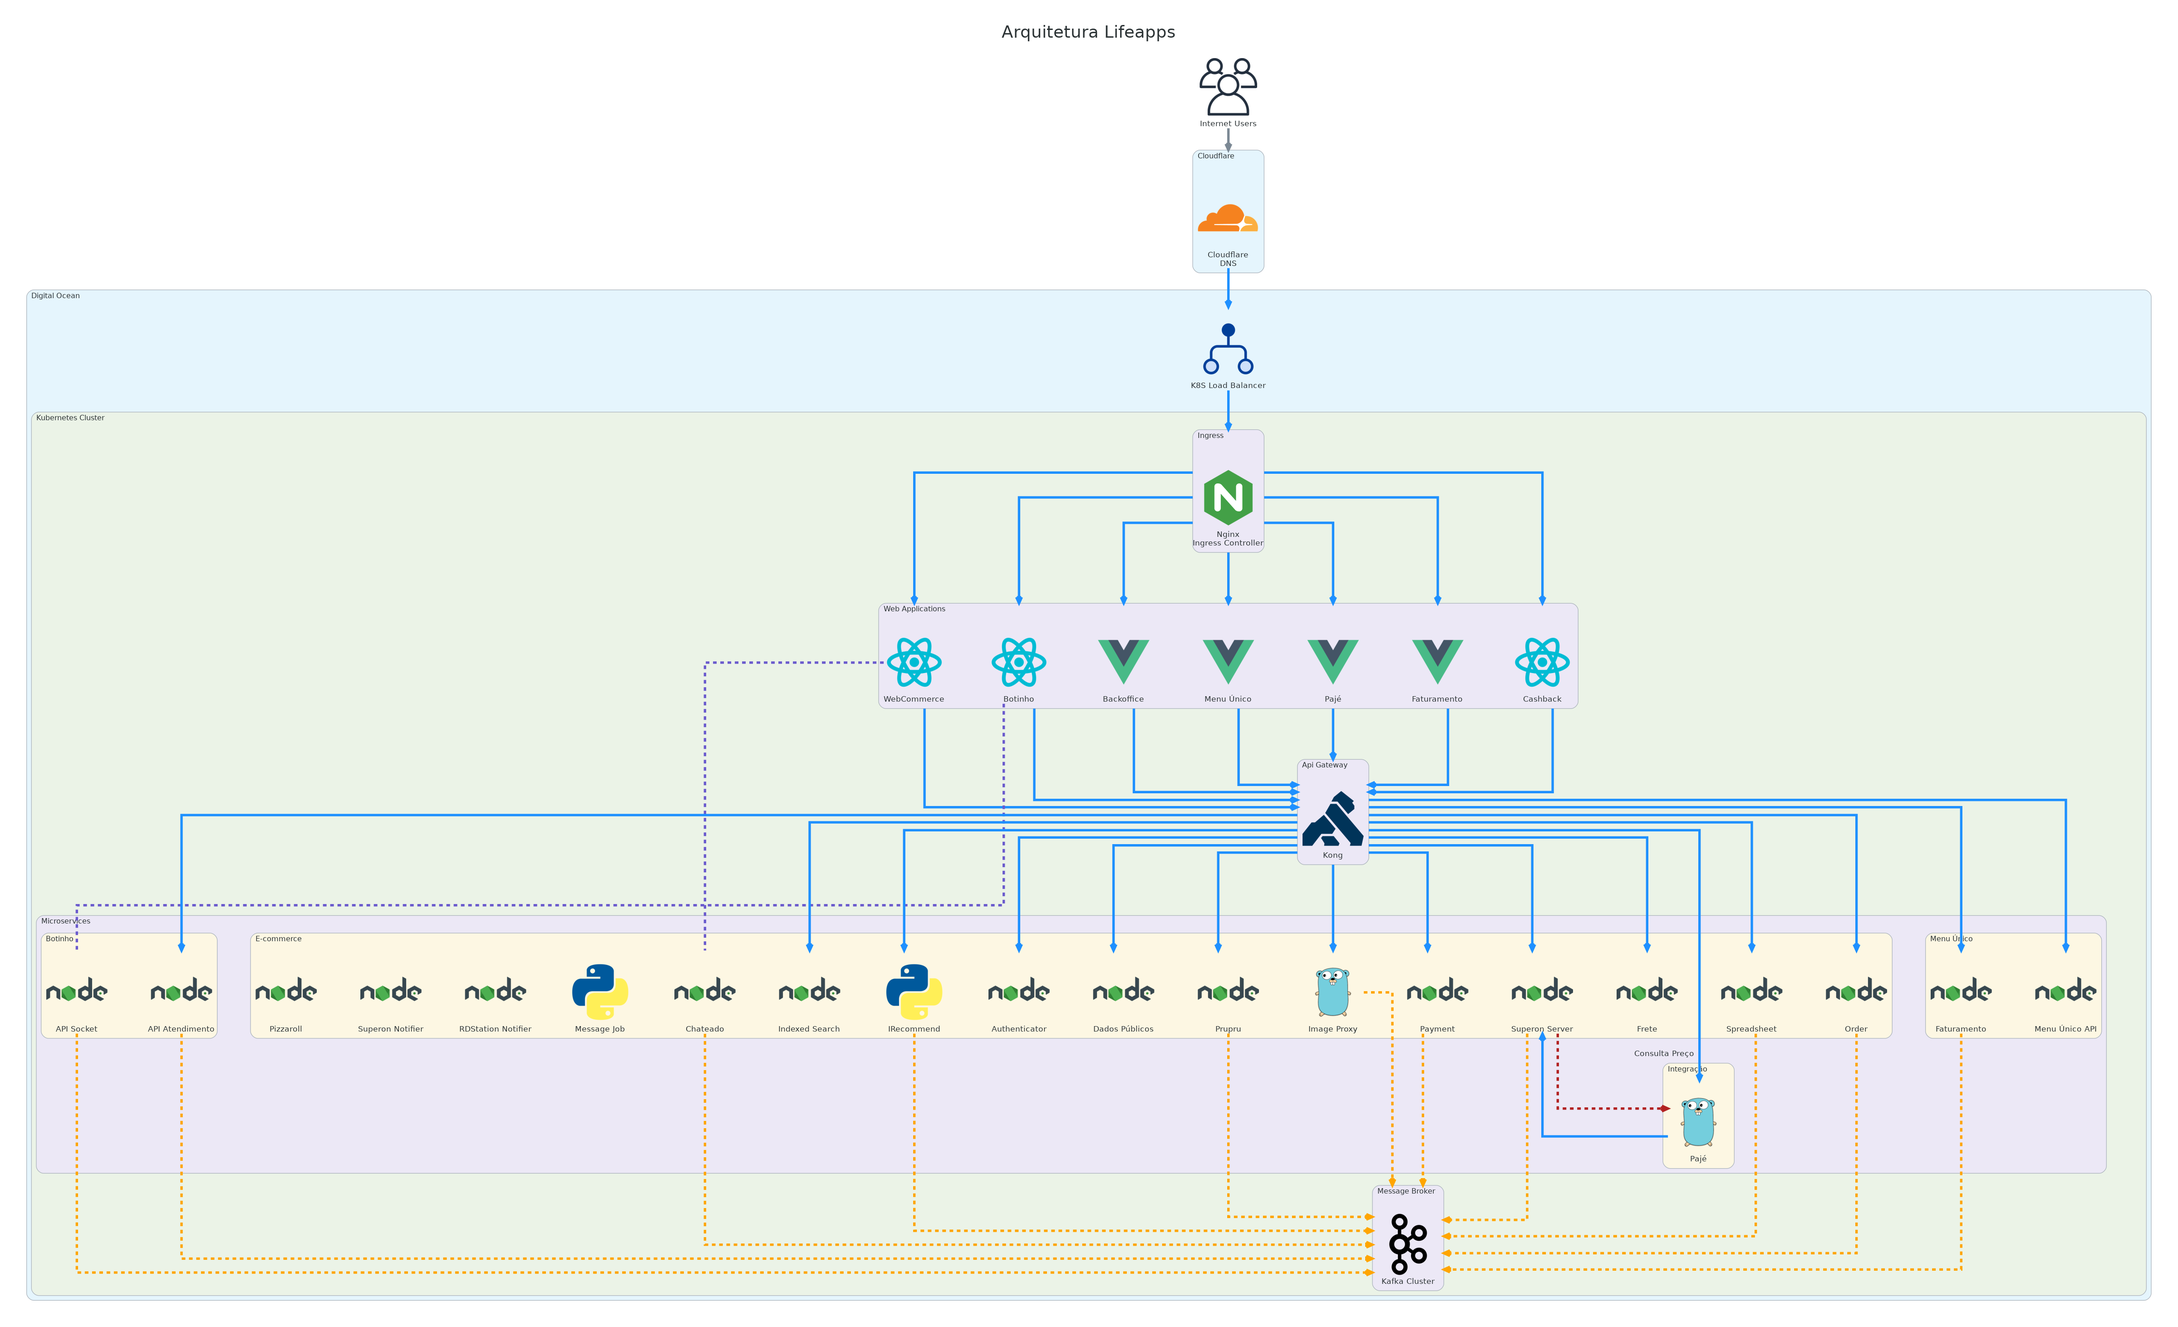
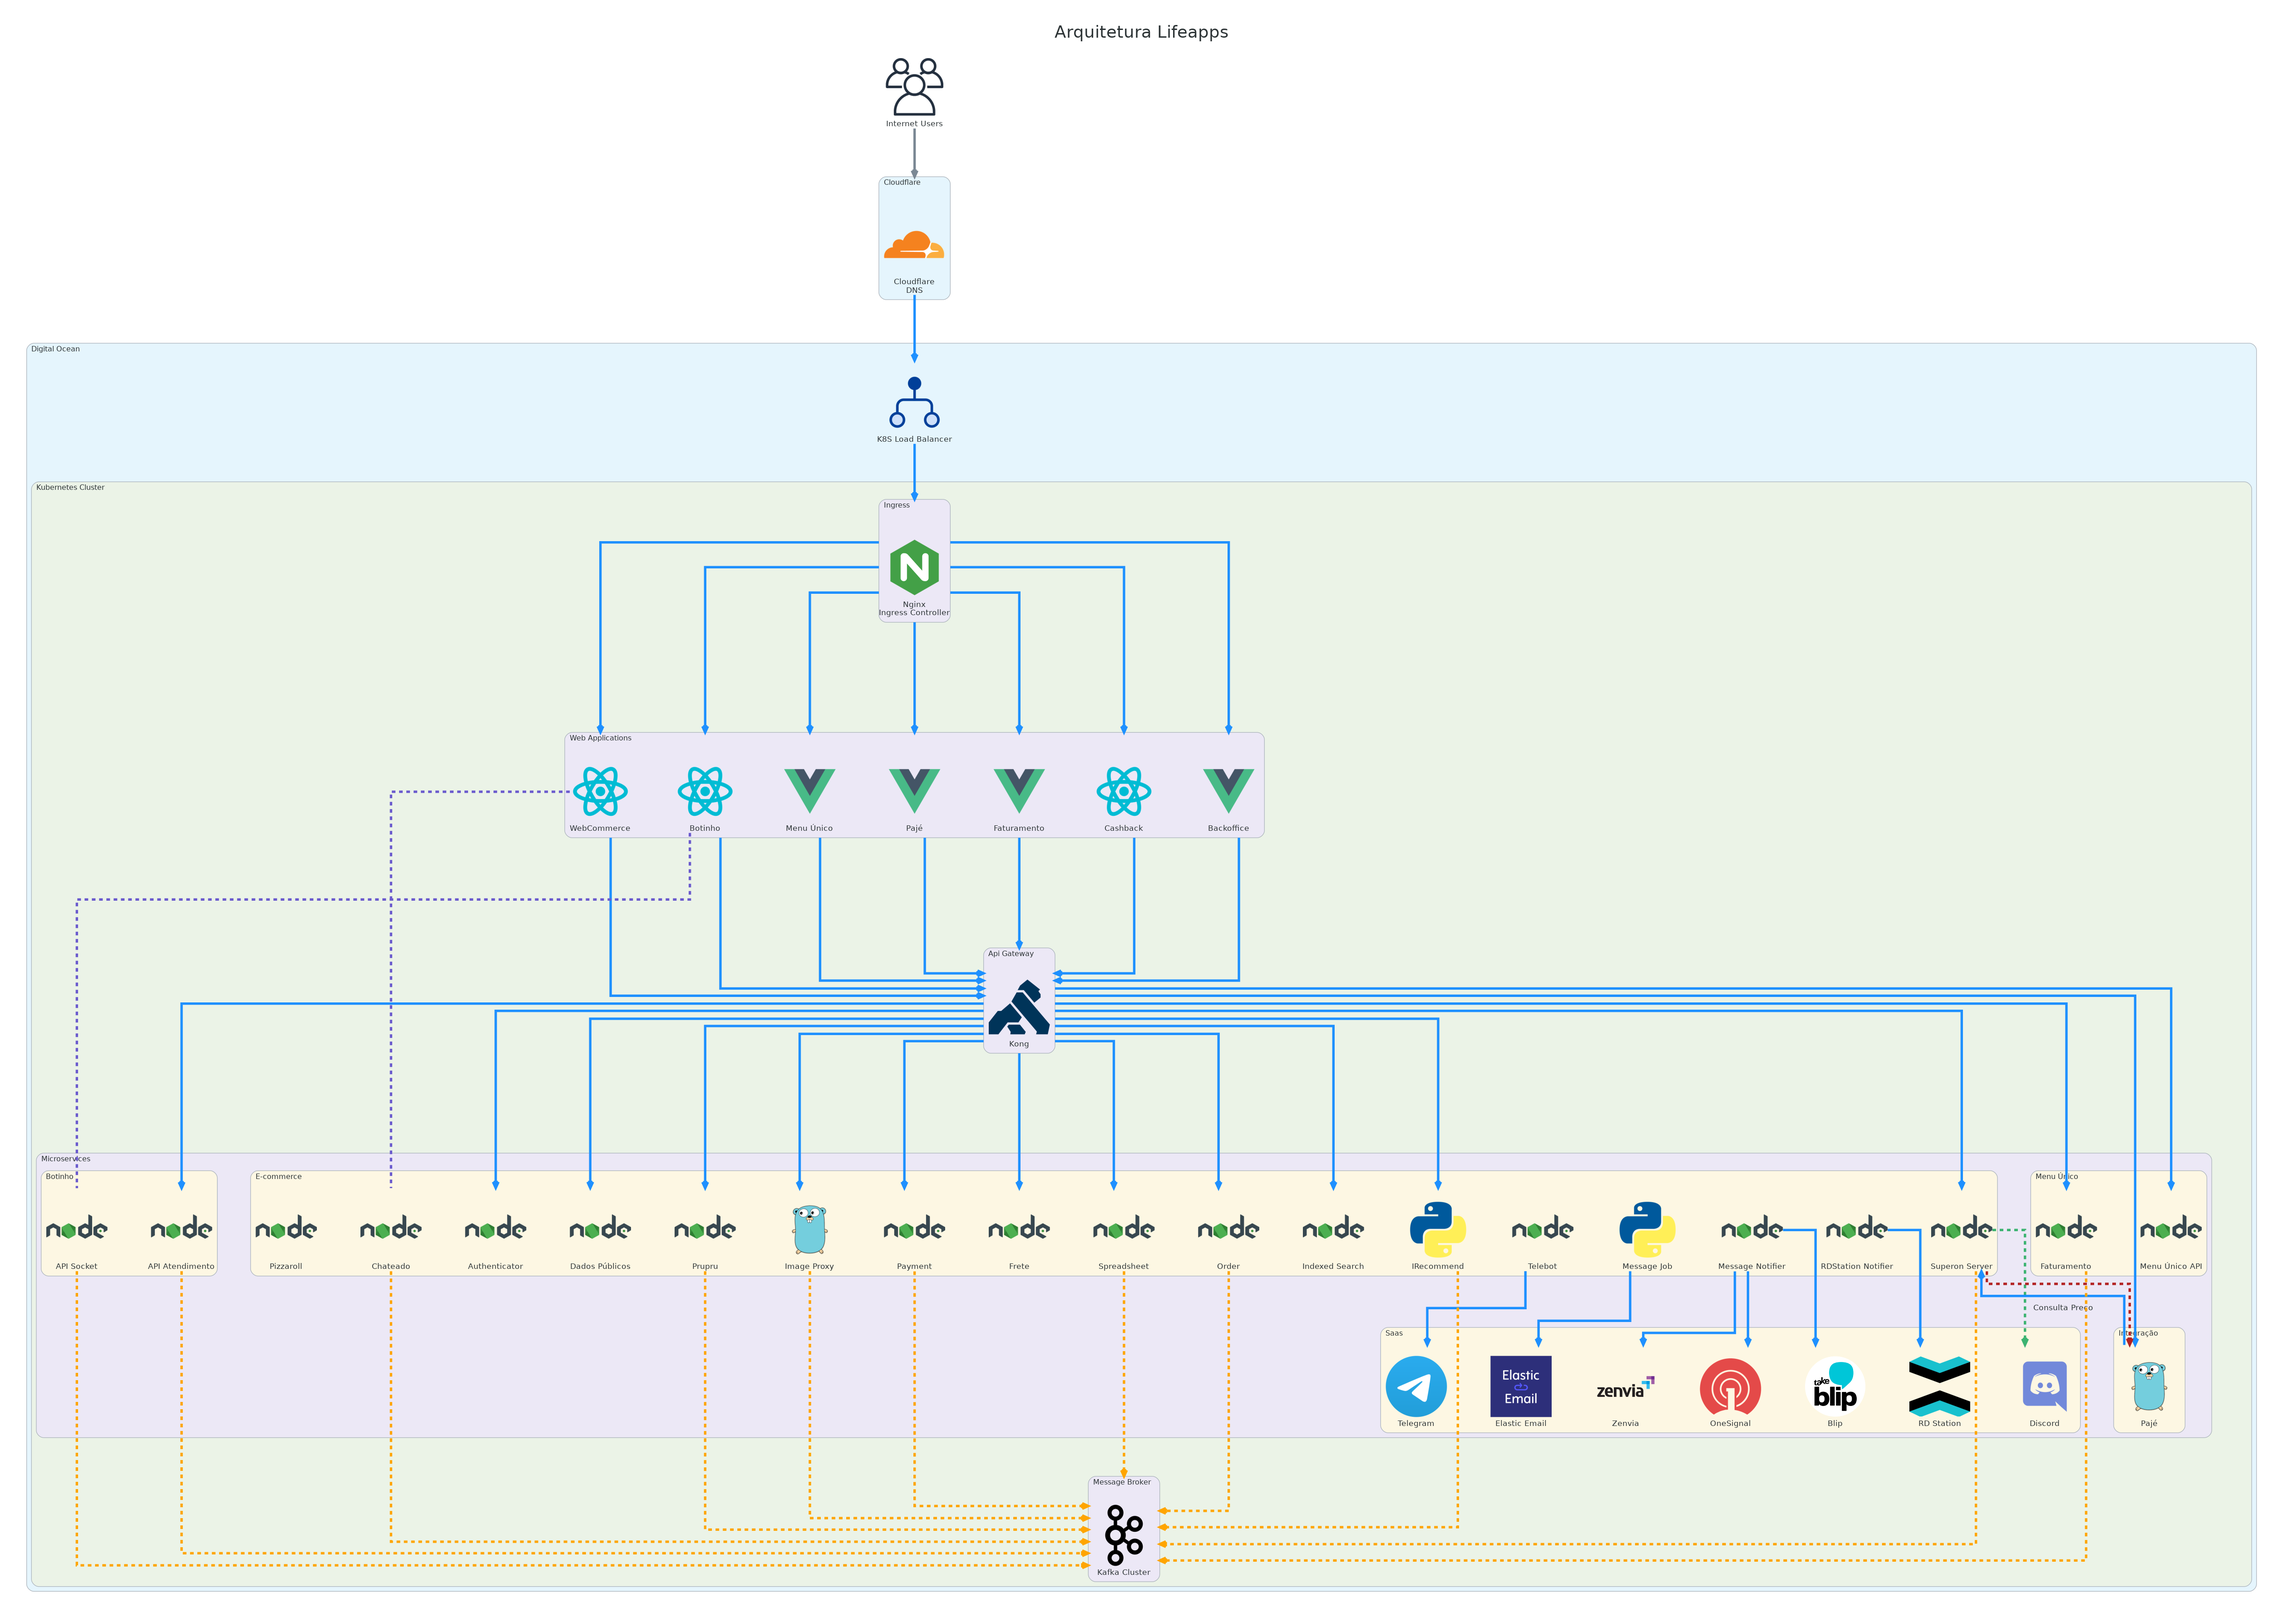
Add message services

diff --git a/src/arquitetura.py b/src/arquitetura.py
@@ -1,6 +1,7 @@
 from functools import partial  # noqa: INP001
 
 from diagrams import Cluster, Diagram, Edge
+from diagrams.custom import Custom
 
 # ============================================================================ #
 # Digital Ocean resources:
@@ -37,6 +38,7 @@ from diagrams.programming.language import Go, NodeJS, Python
 #   https://diagrams.mingrammer.com/docs/nodes/saas
 #
 from diagrams.saas.cdn import Cloudflare
+from diagrams.saas.chat import Discord, Telegram
 
 # ============================================================================ #
 
@@ -44,7 +46,7 @@ from diagrams.saas.cdn import Cloudflare
 graph_attr = {
     "rankdir": "TB",
     "nodesep": "1",
-    "ranksep": "0.75",
+    "ranksep": "1.5",
     "pad": "0.5",
     "fontsize": "28",
     "labeljust": "c",
@@ -65,6 +67,7 @@ Grpc = partial(Edge, style="dashed", color="firebrick")
 GraphQL = partial(Edge, style="dashed", color="pink")
 Stream = partial(Edge, style="dashed", color="orange")
 Socket = partial(Edge, style="dashed", color="slateblue")
+Webhook = partial(Edge, style="dashed", color="mediumseagreen")
 
 # pylint: disable=W0104,W0106
 with Diagram(
@@ -147,12 +150,23 @@ with Diagram(
                     >> kong
                 )
             with Cluster("Microservices", direction="LR"):
+                with Cluster("Saas"):
+                    rd_station = Custom("RD Station", "../icons/rd_station.png")
+                    one_signal = Custom("OneSignal", "../icons/onesignal.png")
+                    zenvia = Custom("Zenvia", "../icons/zenvia.png")
+                    blip = Custom("Blip", "../icons/blip.png")
+                    elastic_email = Custom(
+                        "Elastic Email", "../icons/elastic_email.png"
+                    )
+                    telegram = Telegram("Telegram")
+                    discord = Discord("Discord")
                 with Cluster("E-commerce"):
                     server = NodeJS("Superon Server")
                     payment = NodeJS("Payment")
                     frete = NodeJS("Frete")
                     spreadsheet = NodeJS("Spreadsheet")
                     order = NodeJS("Order")
+                    telebot = NodeJS("Telebot")
                     indexed_search = NodeJS("Indexed Search")
                     image_proxy = Go("Image Proxy")
                     irecommend = Python("IRecommend")
@@ -162,9 +176,14 @@ with Diagram(
                     message_job = Python("Message Job")
                     prupru = NodeJS("Prupru")
                     rdstation_notifier = NodeJS("RDStation Notifier")
-                    onesignal_notifier = NodeJS("Superon Notifier")
+                    message_notifier = NodeJS("Message Notifier")
                     pizzaroll = NodeJS("Pizzaroll")
                     webcommerce - Socket() - chateado
+                    message_notifier >> Rest() >> [one_signal, blip, zenvia]
+                    rdstation_notifier >> Rest() >> rd_station
+                    telebot >> Rest() >> telegram
+                    message_job >> Rest() >> elastic_email
+                    server >> Webhook() >> discord
                 with Cluster("Botinho"):
                     api_atendimento = NodeJS("API Atendimento")
                     api_socket = NodeJS("API Socket")
